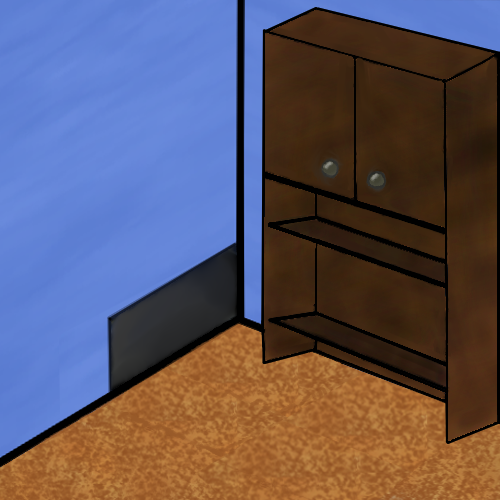
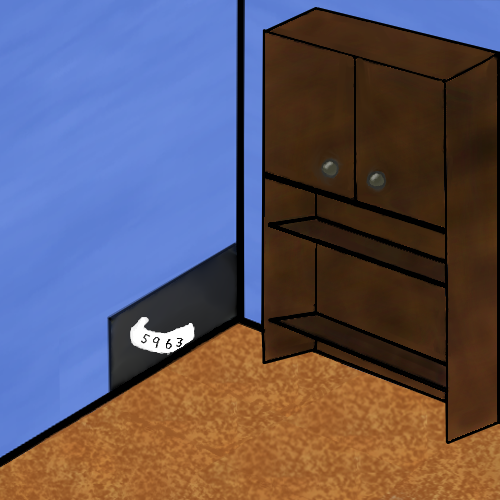
implemented rooms and functionality

Changed region(s): [[0.24, 0.63, 0.39, 0.72]]

diff --git a/pygame_test.py b/pygame_test.py
@@ -26,45 +26,129 @@ running = True
 
 font = pygame.font.SysFont("Arial", 48)
 
+# victory_room = Classes_and_functions.Room('victory','images/victory.png')
+# room1 = Classes_and_functions.Room('room1','images/room1/room1.png')
+# room2 = Classes_and_functions.Room('room2','images/room2/room2.png')
+
+# room1_door1 = Classes_and_functions.Door((231,218),"images/room1/door1.png","images/room1/door1_open.png", victory_room)
+# room1_door2 = Classes_and_functions.Door((0,216),"images/room1/door2.png","images/room1/door2_open.png", room2)
+# basic_key = Classes_and_functions.Item('images/key.png','key')
+# room1_key = Classes_and_functions.ClickableItem(basic_key,(120,337),'images/room1/key.png')
+# room1_door2_keylock = Classes_and_functions.ItemLock(basic_key, (22,350), (32,360), room1_door2)
+# room1.add_door(room1_door1)
+# room1.add_door(room1_door2)
+# room1.add_object(room1_key)
+# room1.add_nonrender(room1_door2_keylock)
+
+# room2_door1 = Classes_and_functions.Door((399,160),'images/room2/door1.png','images/room2/door1_open.png', room1, True)
+# room2_door2 = Classes_and_functions.Door((0,203),'images/room2/door2.png','images/room2/door2_open.png', 0)
+# green_die = Classes_and_functions.ClickableObject('a green die', 'It reads 6', (188,342),(195,355))
+# red_die = Classes_and_functions.ClickableObject('a red die', 'it reads 3', (270,347),(280,356))
+# brown_die = Classes_and_functions.ClickableObject('a brown die', 'it reads 5',(315,328),(328,340))
+# yellow_die = Classes_and_functions.ClickableObject('a yellow die', 'it reads 1',(228,361),(240,370))
+# room2.add_door(room2_door1)
+# room2.add_door(room2_door2)
+# room2.add_nonrender(green_die)
+# room2.add_nonrender(red_die)
+# room2.add_nonrender(brown_die)
+# room2.add_nonrender(yellow_die)
+
+# room2_lock = Classes_and_functions.NumberLock('images/room2/lock.png', (72,332), (110,378), (269,148), (387,197), room2_door2)
+# room2_lock.add_digit(1, (130, 300), (116,292), (172,369), 6)
+# room2_lock.add_digit(5, (220, 300), (202,291), (258,368), 6)
+# room2_lock.add_digit(3, (300, 300), (280,290), (336,367), 6)
+# room2_lock.add_digit(6, (380, 300), (361,289), (417,366), 6)
+# room2.add_lock(room2_lock)
+
+##Add Rooms##
+room1A = Classes_and_functions.Room('room1A','images/Room_1-A/room_1-A.png')
+room1B = Classes_and_functions.Room('room1B','images/Room_1-b/background.png')
+room2 = Classes_and_functions.Room('room2','images/Room 2/room_2.PNG')
+room3 = Classes_and_functions.Room('room3','images/room3/room_3.png')
 victory_room = Classes_and_functions.Room('victory','images/victory.png')
-room1 = Classes_and_functions.Room('room1','images/room1/room1.png')
-room2 = Classes_and_functions.Room('room2','images/room2/room2.png')
 
-room1_door1 = Classes_and_functions.Door((231,218),"images/room1/door1.png","images/room1/door1_open.png", victory_room)
-room1_door2 = Classes_and_functions.Door((0,216),"images/room1/door2.png","images/room1/door2_open.png", room2)
+##Add Items##
 basic_key = Classes_and_functions.Item('images/key.png','key')
-room1_key = Classes_and_functions.ClickableItem(basic_key,(120,337),'images/room1/key.png')
-room1_door2_keylock = Classes_and_functions.ItemLock(basic_key, (22,350), (32,360), room1_door2)
-room1.add_door(room1_door1)
-room1.add_door(room1_door2)
-room1.add_object(room1_key)
-room1.add_nonrender(room1_door2_keylock)
+screwdriver = Classes_and_functions.Item('images/screwdriver.png', 'screwdriver')
 
-room2_door1 = Classes_and_functions.Door((399,160),'images/room2/door1.png','images/room2/door1_open.png', room1, True)
-room2_door2 = Classes_and_functions.Door((0,203),'images/room2/door2.png','images/room2/door2_open.png', 0)
-green_die = Classes_and_functions.ClickableObject('a green die', 'It reads 6', (188,342),(195,355))
-red_die = Classes_and_functions.ClickableObject('a red die', 'it reads 3', (270,347),(280,356))
-brown_die = Classes_and_functions.ClickableObject('a brown die', 'it reads 5',(315,328),(328,340))
-yellow_die = Classes_and_functions.ClickableObject('a yellow die', 'it reads 1',(228,361),(240,370))
-room2.add_door(room2_door1)
-room2.add_door(room2_door2)
-room2.add_nonrender(green_die)
-room2.add_nonrender(red_die)
-room2.add_nonrender(brown_die)
-room2.add_nonrender(yellow_die)
+##Components of room1A##
+arrow_right_1A = Classes_and_functions.Door((464,15),'images/Room_1-A/arrowright.png','images/Room_1-A/arrowright.png',room1B,True)
+door1_1A = Classes_and_functions.Door((63,126),'images/Room_1-A/door1closed.png','images/Room_1-A/door1open.png',room2)
+door2_1A = Classes_and_functions.Door((466,168),'images/Room_1-A/door2closed.png','images/Room_1-A/door2open.png',victory_room)
+key_1A = Classes_and_functions.ClickableItem(basic_key,(220,303),'images/Room_1-A/key.png')
+lock_door1_1A = Classes_and_functions.ItemLock(basic_key,(144,276),(165,294),door1_1A)
+##Add Components##
+room1A.add_door(arrow_right_1A)
+room1A.add_door(door1_1A)
+room1A.add_door(door2_1A)
+room1A.add_object(key_1A)
+room1A.add_nonrender(lock_door1_1A)
 
-room2_lock = Classes_and_functions.NumberLock('images/room2/lock.png', (72,332), (110,378), (269,148), (387,197), room2_door2)
-room2_lock.add_digit(1, (130, 300), (116,292), (172,369), 6)
-room2_lock.add_digit(5, (220, 300), (202,291), (258,368), 6)
-room2_lock.add_digit(3, (300, 300), (280,290), (336,367), 6)
-room2_lock.add_digit(6, (380, 300), (361,289), (417,366), 6)
-room2.add_lock(room2_lock)
+##Components of room1B##
+arrow_left_1B = Classes_and_functions.Door((0,18),'images/Room_1-B/arrow_away.PNG','images/Room_1-B/arrow_away.PNG',room1A,True)
+door_1B = Classes_and_functions.Door((0,161),'images/Room_1-B/door_closed.PNG','images/Room_1-B/door_open.PNG',victory_room)
+screwdriver_1B = Classes_and_functions.ClickableItem(screwdriver,(328,438),'images/Room_1-B/screwdriver.PNG')
+lock_1B = Classes_and_functions.NumberLock('images/Room_1-B/Escape Room lock.png',(76,285),(104,336),door_1B)
+##Add digits to lock##
+lock_1B.add_digit(5,(120,305),(105,265),(170,400))
+lock_1B.add_digit(9,(205,305),(180,265),(250,400))
+lock_1B.add_digit(6,(285,305),(260,265),(330,400))
+lock_1B.add_digit(3,(365,305),(335,265),(410,400))
+##Add Components##
+room1B.add_door(arrow_left_1B)
+room1B.add_door(door_1B)
+room1B.add_object(screwdriver_1B)
+room1B.add_lock(lock_1B)
 
-room_list.add_room(room1)
-room_list.add_room(room2)
+##Components of room2##
+door1_2 = Classes_and_functions.Door((0,119),'images/Room 2/door1closed.PNG','images/Room 2/door1open.PNG',room3)
+door2_2 = Classes_and_functions.Door((419,130),'images/Room 2/door2open.PNG','images/Room 2/door2open.PNG',room1A,True)
+lock_2 = Classes_and_functions.NumberLock('images/Room 2/lock_enlarged.png',(85,290),(117,346),door1_2)
+greendice = Classes_and_functions.ClickableObject('a green die', 'It reads four',(174,311),(193,337))
+bluedice = Classes_and_functions.ClickableObject('a blue die', 'It reads six',(260,325),(279,350))
+purpledice = Classes_and_functions.ClickableObject('a purple die', 'It reads one',(339,264),(358,289))
+orangedice = Classes_and_functions.ClickableObject('a orange die', 'It reads three',(269,421),(288,446))
+##Add digits to lock##
+lock_2.add_digit(6,(125,310),(105,265),(170,400),6)
+lock_2.add_digit(3,(205,310),(180,265),(250,400),6)
+lock_2.add_digit(1,(285,310),(260,265),(330,400),6)
+lock_2.add_digit(4,(360,310),(335,265),(410,400),6)
+##Add Components##
+room2.add_door(door1_2)
+room2.add_door(door2_2)
+room2.add_lock(lock_2)
+room2.add_nonrender(greendice)
+room2.add_nonrender(bluedice)
+room2.add_nonrender(purpledice)
+room2.add_nonrender(orangedice)
+
+#Components of room3##
+arrow_down_3 = Classes_and_functions.Door((13,455),'images/room3/arrow_down.png','images/room3/arrow_down.png',room2,True)
+vent_3 = Classes_and_functions.Door((110,244),'images/room3/vent_cover.PNG','images/room3/empty_vent.png',room3)
+##code_note_3 = Classes_and_functions.ClickableObject('a note','it reads \"5 9 6 3\"',(130,317),(194,355))
+vent_lock_check_3 = Classes_and_functions.ItemLock(screwdriver,(110,244),(238,391),vent_3)
+##Add Components##
+room3.add_door(arrow_down_3)
+room3.add_door(vent_3)
+#room3.add_nonrender(code_note_3)
+room3.add_nonrender(vent_lock_check_3)
+
+
+##Add rooms to room list##
 room_list.add_room(victory_room)
+room_list.add_room(room1A)
+room_list.add_room(room1B)
+room_list.add_room(room2)
+room_list.add_room(room3)
+##Set starting room##
+room_list.change_room(room1A)
 
-room_list.change_room(room1)
+
+#room_list.add_room(room1)
+#room_list.add_room(room2)
+#room_list.add_room(victory_room)
+
+#room_list.change_room(room1)
 
 
 while running:

diff --git a/Classes_and_functions.py b/Classes_and_functions.py
@@ -163,13 +163,11 @@ class LockDigit:
         self.cur_code = (self.cur_code + 1) % (self.max_num+1)
 
 class NumberLock:
-    def __init__(self, image, top_left, bottom_right, check_top_left, check_top_right, connected_door):
+    def __init__(self, image, top_left, bottom_right, connected_door):
         self.answer = []
         self.digits = []
         self.top_left = top_left
         self.bottom_right = bottom_right
-        self.check_top_left = check_top_left
-        self.check_top_right = check_top_right
         self.connected_door = connected_door
         self.image = image
         self.show_lock = False
@@ -182,10 +180,13 @@ class NumberLock:
             for digit in self.digits:
                 screen.blit(font.render(str(digit.cur_code), True, (0,0,0)), digit.location)
     def check_code(self):
+        code_right = True
         for index, answer in enumerate(self.answer):
-            if answer == self.digits[index].cur_code:
-                self.connected_door.open_door()
-                self.show_lock = False
+            if answer != self.digits[index].cur_code:
+                code_right = False
+        if code_right:
+            self.connected_door.open_door()
+            self.show_lock = False
     def click(self):
         if self.connected_door.open:
             self.connected_door.click()
@@ -195,21 +196,24 @@ class NumberLock:
             else:
                 self.show_lock = True
     def num_click(self, mouse_pos):
-        if mouse_between(self.check_top_left, self.check_top_right, mouse_pos):
-            self.check_code()
-            return
         for digit in self.digits:
             if mouse_between(digit.top_left, digit.bottom_right, mouse_pos):
                 digit.increment_code()
+                self.check_code()
                 return
     def cursor_render(self, mouse_pos):
-        if mouse_between(self.check_top_left, self.check_top_right, mouse_pos):
-            pygame.mouse.set_cursor(pygame.cursors.tri_right)
+        if mouse_between(self.top_left,self.bottom_right,mouse_pos):
+            pygame.mouse.set_cursor(pygame.cursors.diamond)
             return
-        for digit in self.digits:
-            if mouse_between(digit.top_left, digit.bottom_right, mouse_pos):
-                pygame.mouse.set_cursor(pygame.cursors.broken_x)
-                return
+        else:
+            for digit in self.digits:
+                if mouse_between(digit.top_left, digit.bottom_right, mouse_pos):
+                    pygame.mouse.set_cursor(pygame.cursors.broken_x)
+                    return
+                else:
+                    pygame.mouse.set_cursor(pygame.cursors.arrow)
+                
+        
 
 class ItemLock:
     def __init__(self, item, top_left, bottom_right, door):
@@ -289,9 +293,9 @@ class BottomText():
         elif len(text) < 30:
             self.font_size = 36
         elif len(text) < 40:
-            self.font_size = 24
+            self.font_size = 30
         else:
-            self.font_size = 12
+            self.font_size = 26
         self.text_font = pygame.font.SysFont("Arial", self.font_size)
         self.timer = 0
 